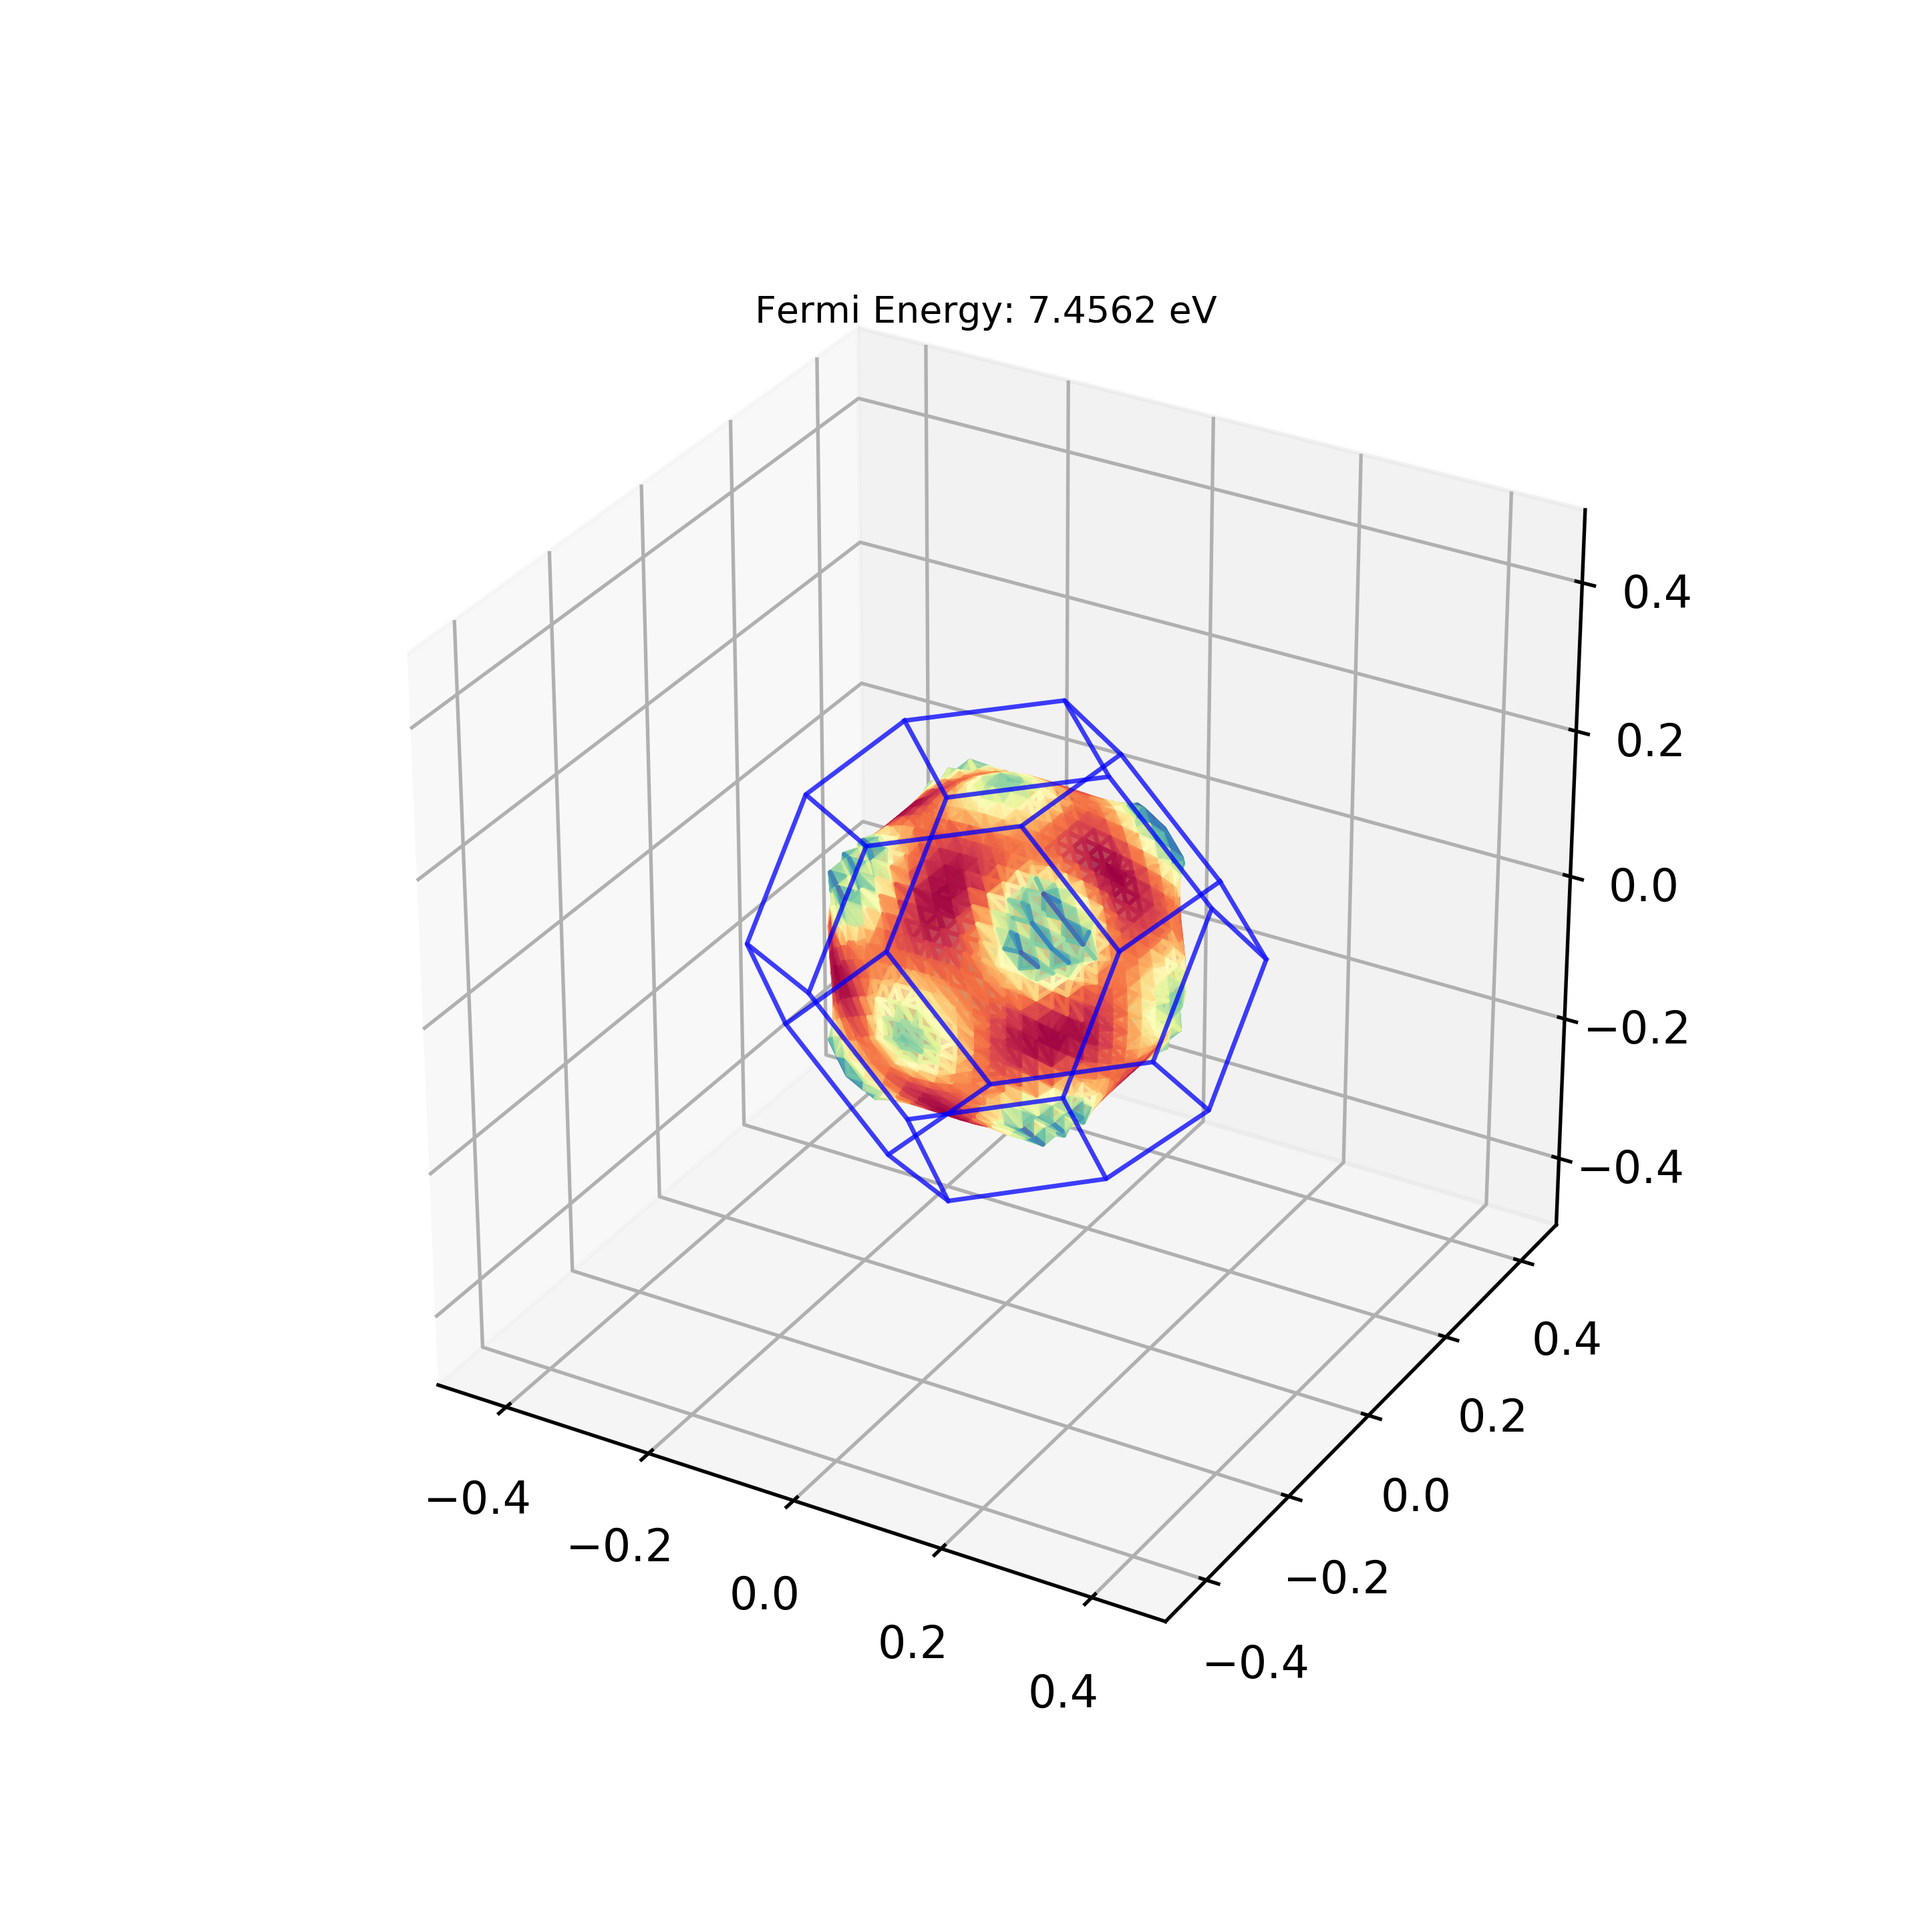
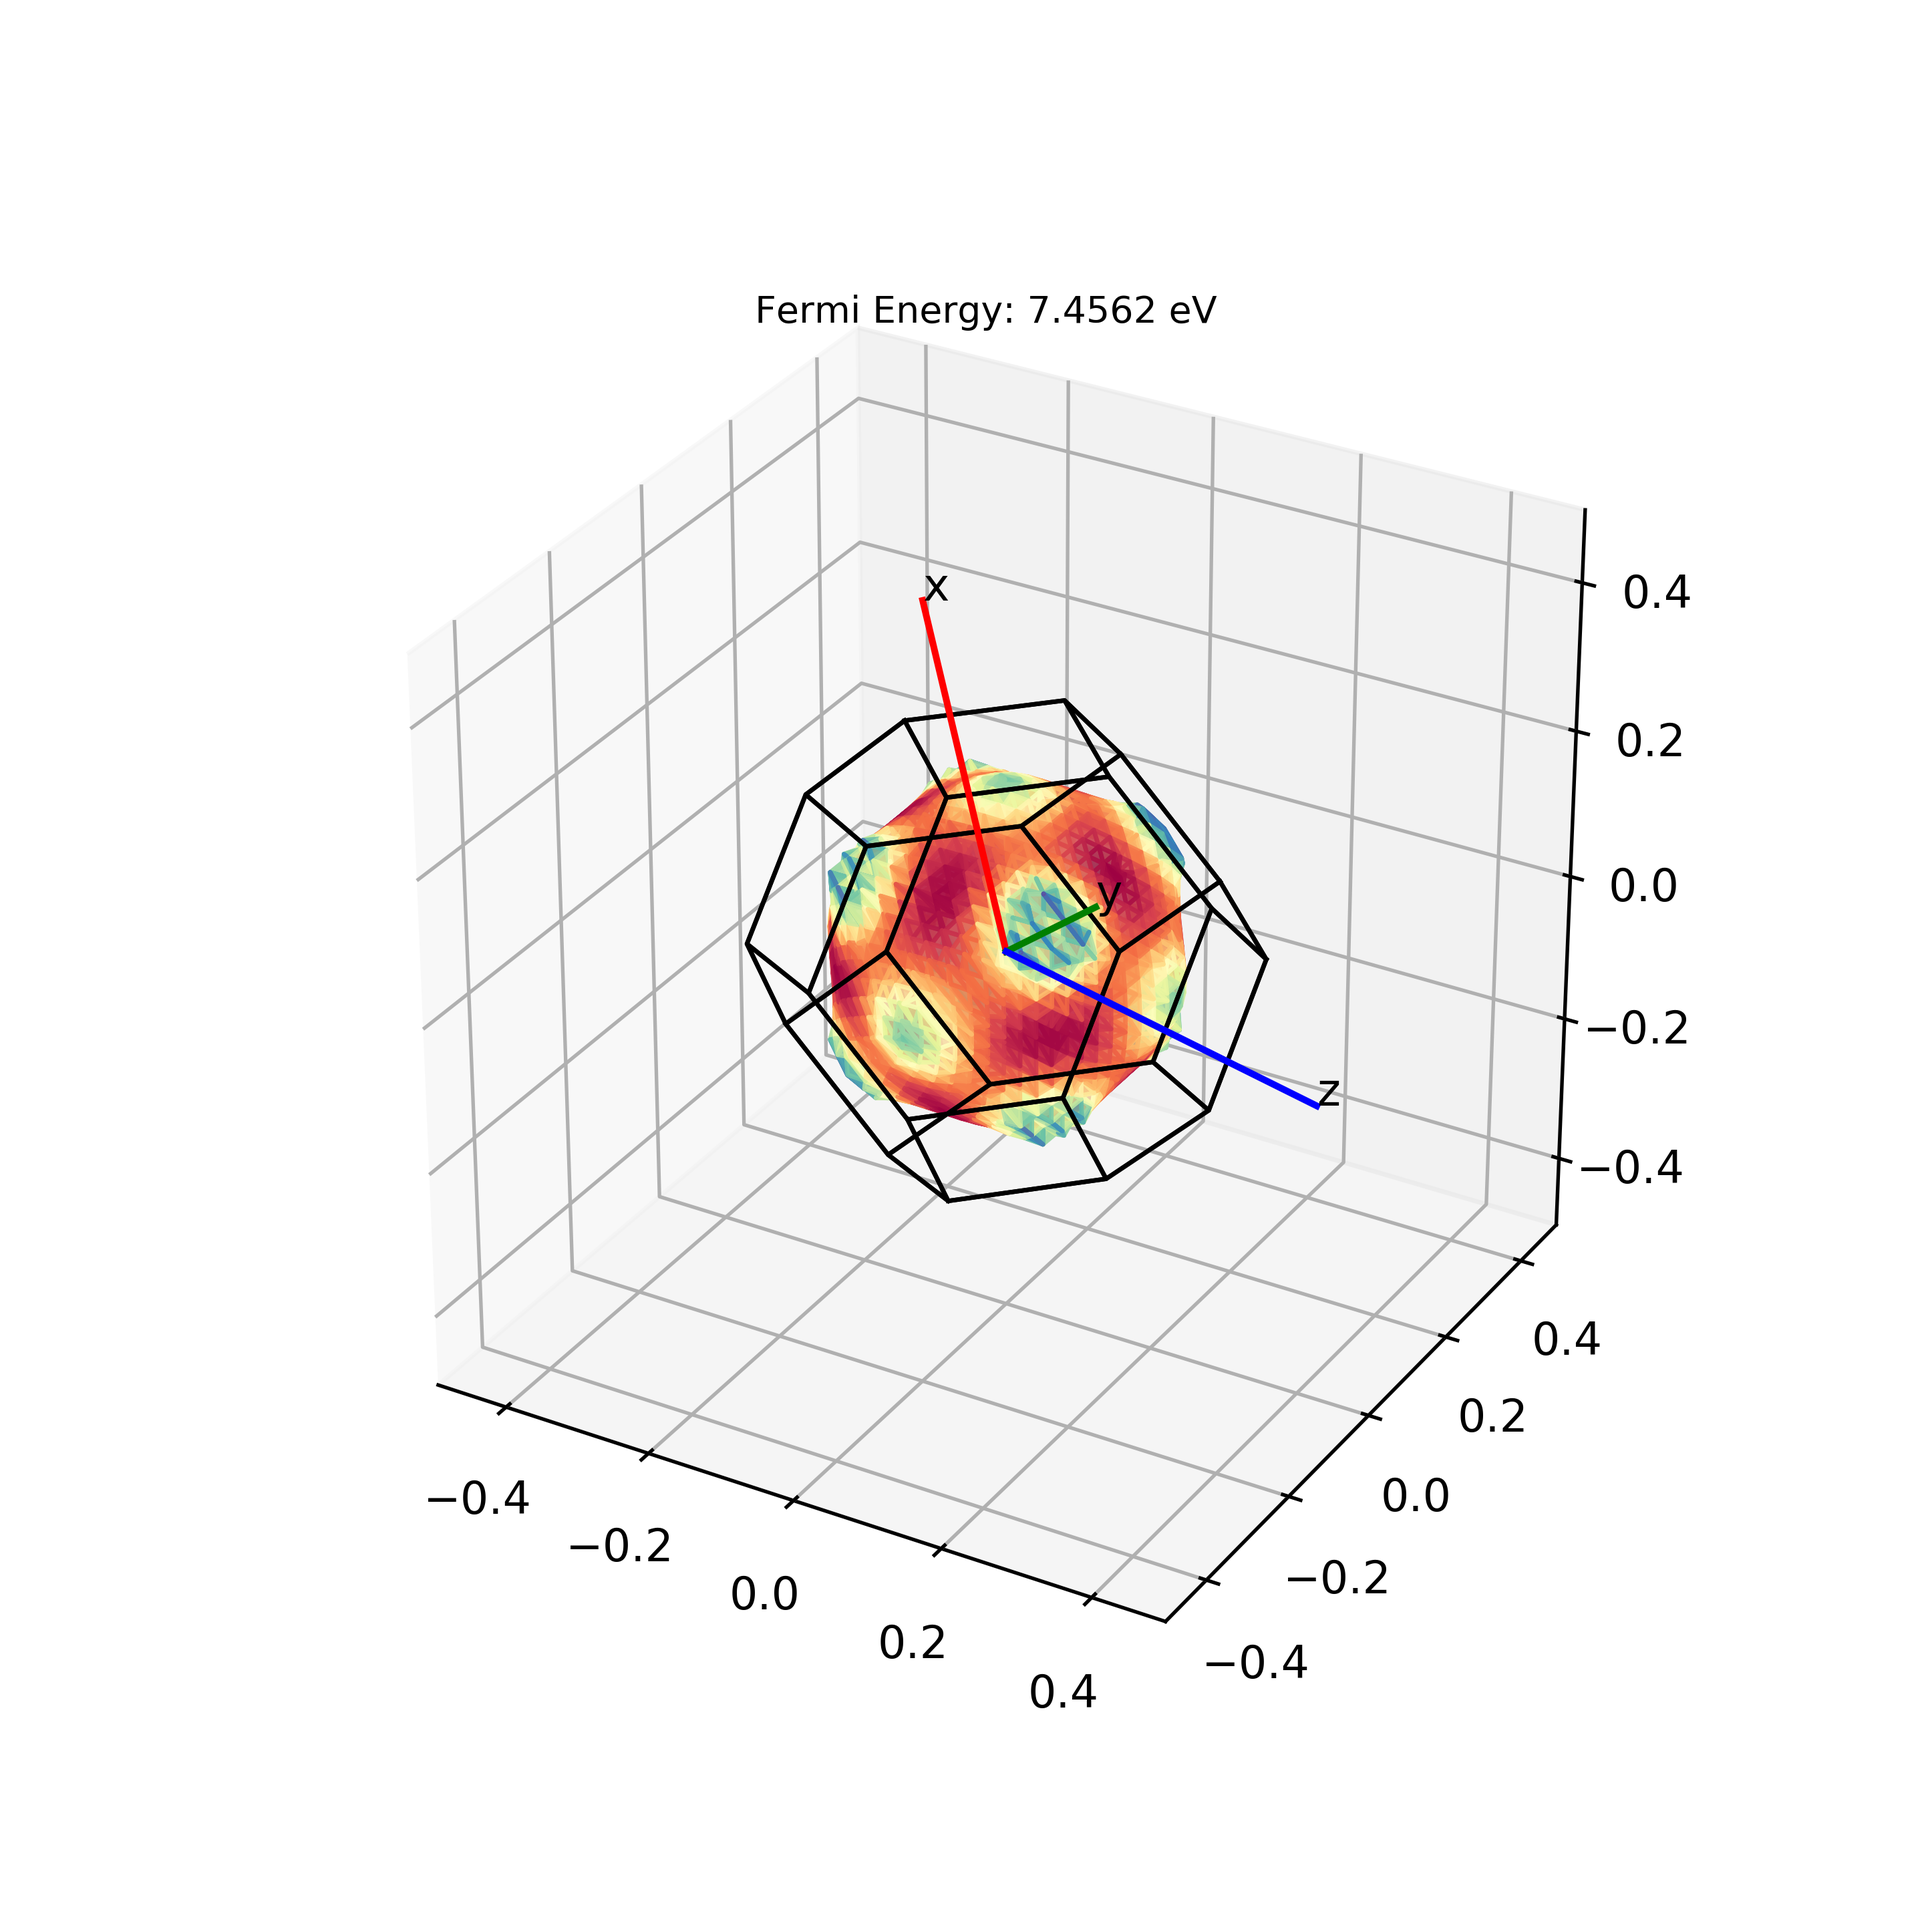
add basis vector in matplotlib fs

diff --git a/FermiSurface.py b/FermiSurface.py
@@ -325,6 +325,25 @@ class ebands3d(object):
         # ax.set_aspect('equal')
         ############################################################
 
+        bcell = self.atoms.get_reciprocal_cell()
+        ############################################################
+        # Plot the Brillouin Zone
+        ############################################################
+        p, l, f = get_brillouin_zone_3d(bcell)
+
+        # The BZ outlines
+        for xx in l:
+            ax.plot(xx[:,0], xx[:,1], xx[:,2], color='k', lw=1.0)
+        # art = Poly3DCollection(f, facecolor='k', alpha=0.1)
+        # ax.add_collection3d(art)
+
+        basis_vector_clrs = ['r', 'g', 'b']
+        basis_vector_labs = ['x', 'y', 'z']
+        for ii in range(3):
+            ax.plot([0, bcell[ii,0]], [0, bcell[ii, 1]], [0, bcell[ii, 2]],
+                    color=basis_vector_clrs[ii], lw=1.5)
+            ax.text(bcell[ii, 0], bcell[ii, 1], bcell[ii, 2],
+                    basis_vector_labs[ii])
         ############################################################
         # Plot the Fermi Surface.
         # Marching-cubes algorithm is used to find out the isosurface.
@@ -338,7 +357,7 @@ class ebands3d(object):
                 raise ImportError("scikit-image not installed.\n"
                     "Please install with it with `conda install scikit-image` or `pip install scikit-image`")
 
-        b1, b2, b3 = np.linalg.norm(self.atoms.get_reciprocal_cell(), axis=1)
+        b1, b2, b3 = np.linalg.norm(bcell, axis=1)
         for ispin in range(self.nspin):
             for ii in range(len(self.fermi_xbands[ispin])):
                 b3d = self.fermi_ebands3d_bz[ispin][ii]
@@ -351,7 +370,7 @@ class ebands3d(object):
                         )
                 verts_cart = np.dot(
                         verts / np.array([b1, b2, b3]) - np.ones(3),
-                        self.atoms.get_reciprocal_cell()
+                        bcell
                         )
                 # np.savetxt('v.dat', verts, fmt='%8.4f')
                 # np.savetxt('vc.dat', verts_cart, fmt='%8.4f')
@@ -363,17 +382,6 @@ class ebands3d(object):
                         alpha=0.8, color=mpl.cm.get_cmap(cmap)(nn(cc)))
                 # art.set_edgecolor('k')
                 ax.add_collection3d(art)
-
-        ############################################################
-        # Plot the Brillouin Zone
-        ############################################################
-        p, l, f = get_brillouin_zone_3d(self.atoms.get_reciprocal_cell())
-
-        # The BZ outlines
-        for xx in l:
-            ax.plot(xx[:,0], xx[:,1], xx[:,2], color='b', alpha=0.5, lw=1.0)
-        # art = Poly3DCollection(f, facecolor='w', alpha=1.0)
-        # ax.add_collection3d(art)
 
         ############################################################
         ax.set_xlim(-b1, b1)
@@ -588,4 +596,4 @@ if __name__ == "__main__":
     xx.get_fermi_ebands3d()
     xx.to_bxsf()
     xx.show_fermi_bz()
-    
+   
